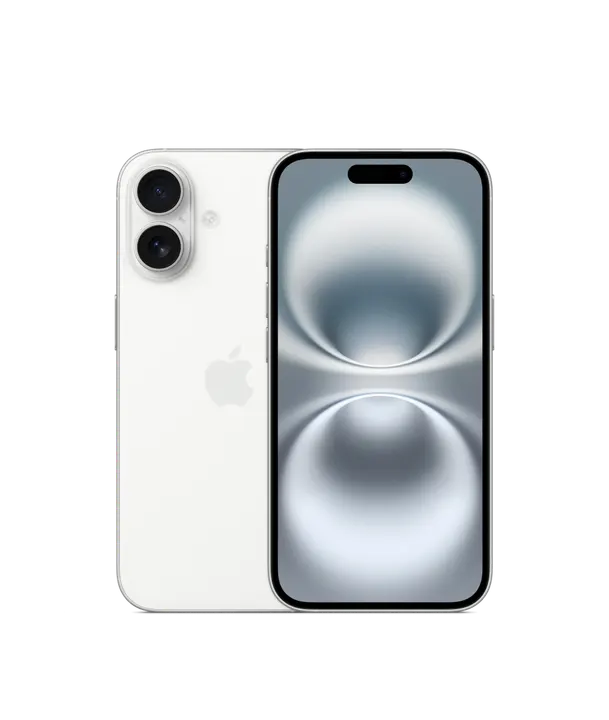
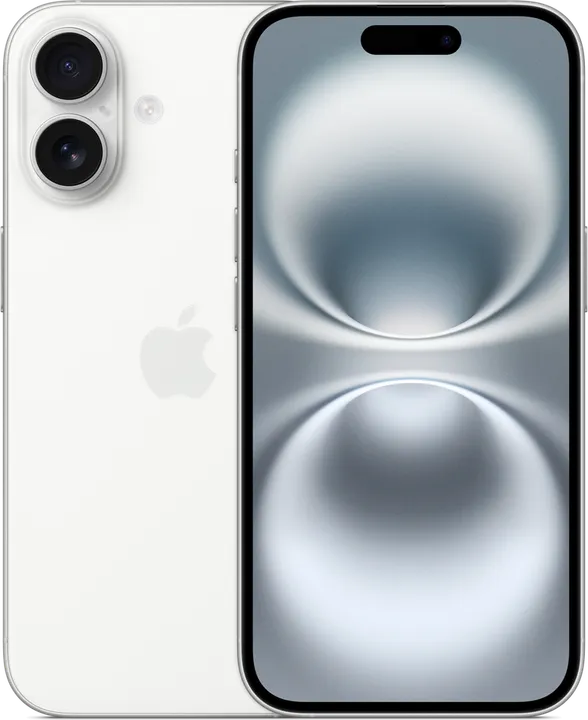
feat: podmień zdjęcia iPhone'ów na czyste zdjęcia produktowe
27 kolorów z wyboru koloru w Apple Store PL: cały telefon (tył i przód),
przezroczyste tło (pole transparent — bez kafla, z poświatą w kolorze
wariantu). Skrypt składania przyjmuje lepsze zdjęcia z iphone-photos.json.

diff --git a/frontend/lib/tech/catalog/types.ts b/frontend/lib/tech/catalog/types.ts
@@ -41,6 +41,8 @@ export type CatalogImage = {
   color: string;
   /** Path under public/ (downloaded file) — null until the file is in the repo. */
   src: string | null;
+  /** Cut-out product shot (transparent background): shown free-standing with the glow, not as a tile. */
+  transparent?: boolean;
   /** Original URL, who and when, and the permission (Krystian 18.11.2026: photos from manufacturers allowed). */
   source: { url: string | null; date: string; consent: string };
 };
